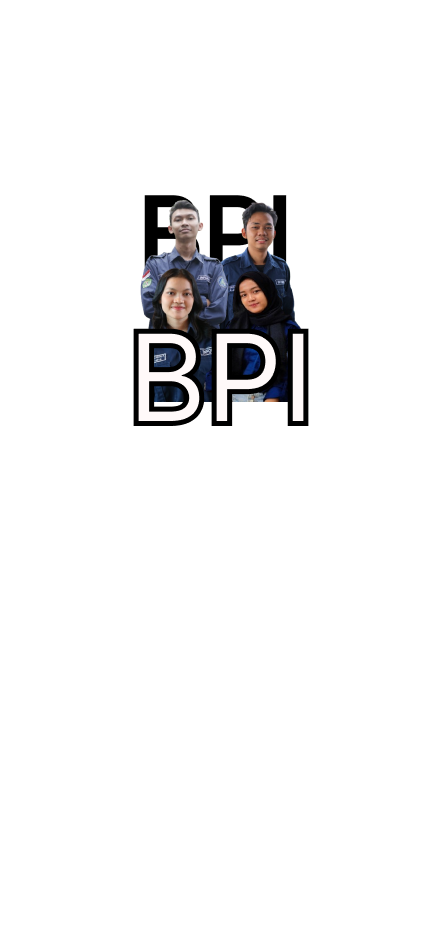
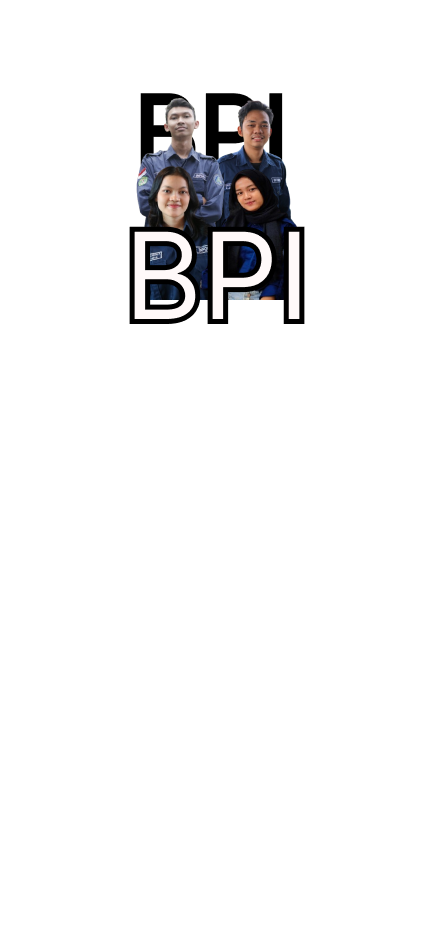
repair bug design

Changed region(s): [[0.3023, 0.0933, 0.7256, 0.4667]]

diff --git a/src/App.css b/src/App.css
@@ -104,17 +104,24 @@
     background-repeat: no-repeat;
     background-attachment: fixed;
 }
-
+.bg-main{
+    background-image: url('./assets/bg4.png');
+    background-size: cover;
+    background-position:center;
+    background-repeat: no-repeat;
+    background-attachment: fixed;
+}
 @media (max-width: 480px) {
     .bg-bpi{
         background-image: url(./assets/bg2.png);
         background-size: cover;
     }
     .bg-main{
-        background-image: url('./assets/bg4.png');
-        background-size: cover;
-        background-position: center;
-        background-repeat: no-repeat;
-        background-attachment: fixed;
+        background-image: url('./assets/bg4-mobile.png');
+        background-size: contain;
+        background-position:top;
+    }
+    .bg-kabinet {
+        background-attachment: scroll; 
     }
 }

diff --git a/src/App.jsx b/src/App.jsx
@@ -47,16 +47,16 @@ function App() {
         <Routes>
           <Route exact path='/' element={
             <div className='bg-main'>
-            <LandingPage/>
-            <About/>
-            <Event/>
-            <Highlight/>
-            <Kabinet/>
-            <VisiMisi/>
-            <BadanInti/>
-            <Depart/>
-            <Article/>
-            <Question/>
+              <LandingPage/>
+              <About/>
+              <Event/>
+              <Highlight/>
+              <Kabinet/>
+              <VisiMisi/>
+              <BadanInti/>
+              <Depart/>
+              <Article/>
+              <Question/>
             </div>
           }/>
           <Route path='/BPI' element={<Bpi/>}/>

diff --git a/src/component/organism/landingPage.jsx b/src/component/organism/landingPage.jsx
@@ -28,8 +28,8 @@ function LandingPage() {
             </motion.div>
             <div className='bg-caption rounded-md px-10 py-3 text-white absolute'>
             <motion.div {...viewportSlideRight}>
-              <div className='container text-3xl lg:text-7xl font-serif md:text-xl  font-bold'>
-                Information System Association 
+              <div className='container text-2xl lg:text-7xl font-serif md:text-xl  font-bold'>
+                Information System Association
               </div>
               <p className='text-center text-xs lg:text-2xl'>
                 Bersatu Untuk Berjaya!
